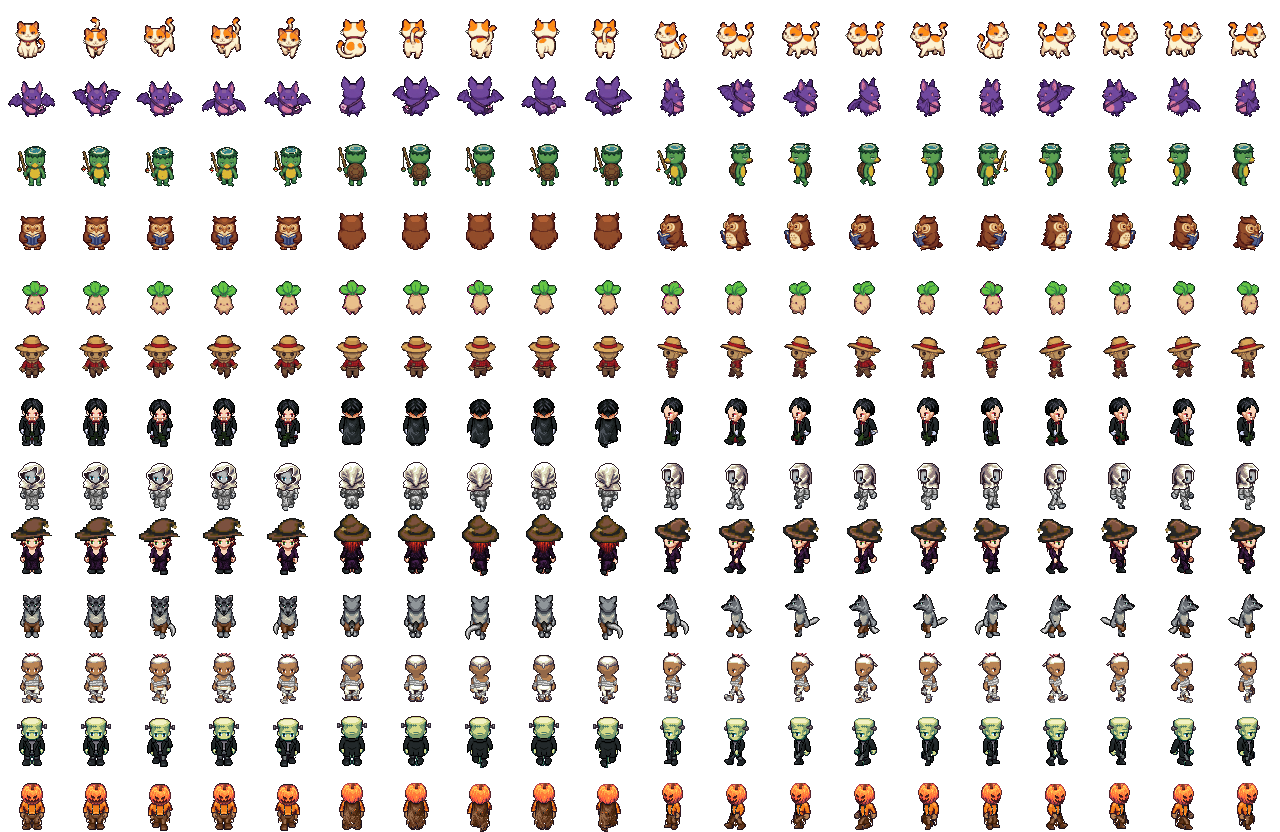
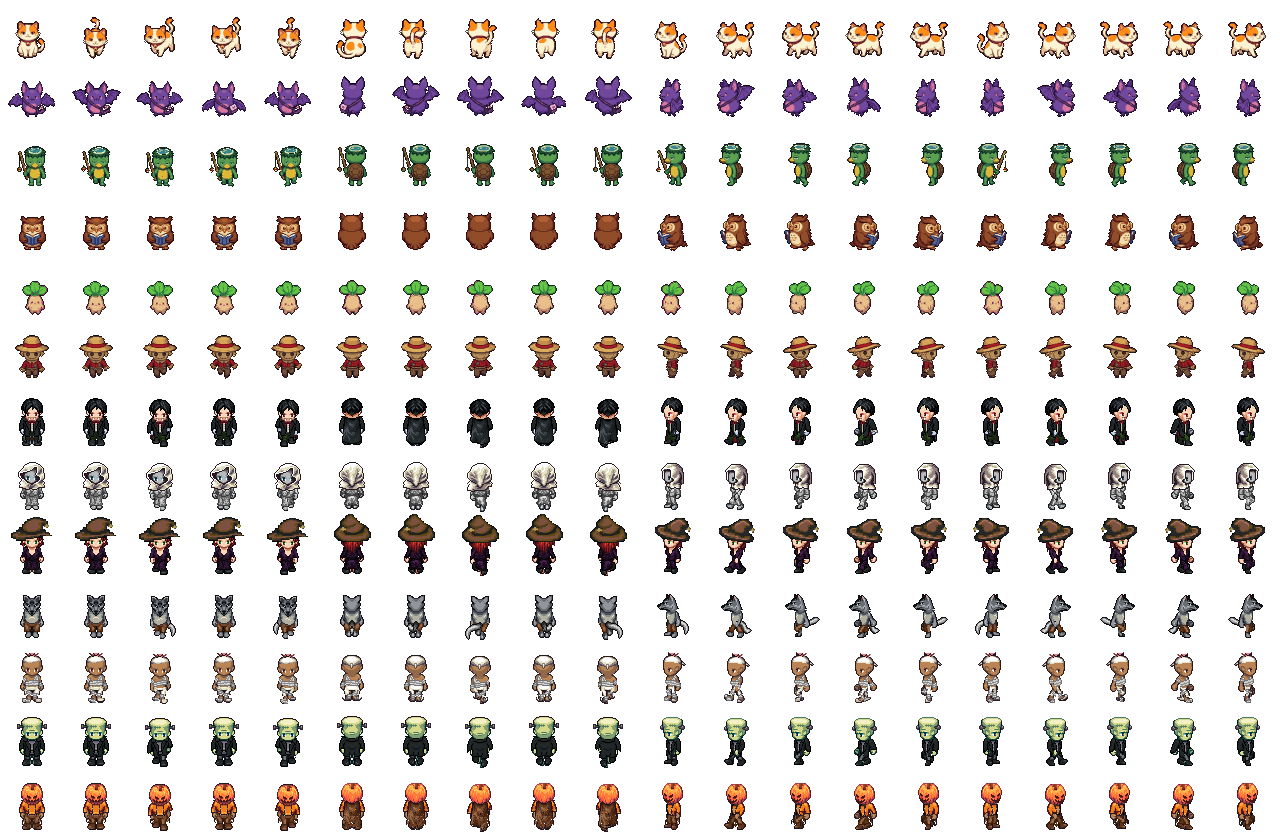
대사 화면·지도에서 동물 NPC가 걸을 때 좌우로 번갈아 보던 것 수정: 옆모습 걷기 칸을 칸마다 뒤집던 걸 없애고 생성 시트 그대로 사용 (캇파 등 6명, 배트리는 방향 바로잡음)
Claude-Session: https://claude.ai/code/session_01HhJ2NoNCjk5kaA3GWL7UDs

diff --git a/public/index.html b/public/index.html
@@ -2141,7 +2141,7 @@ function renderCook(){
 // ===== 서브 NPC 10명: 하루 한 번 대화 ♥, 선물(좋아함 +3·보통 +1·싫어함 -1), ♥2·5·8·10마다 이야기 장면과 보상 =====
 // 동물은 art/npcs.png (tools/iso/npc_art.py) 그림, 사람은 아바타. 관리자 페이지에서 고친 내용(npcs/<id>)이 이 기본값 위에 덮여요
 // 호감도 점수 3점 = ♥1, ♥10까지. me.npc[id] = { p 점수, t 대화한 날, g 선물한 날, s 본 장면 [2,5,…] }
-const NPC_ART_V = 5;
+const NPC_ART_V = 6;
 const NPC_DATA_V = 1;   // data/npc 캐시 버전
 // LPC NPC 그림(art/npcs.png: 한 줄 = 한 명, 64칸 20개)에서 얼굴 부분만 크게 (초상화)
 const NPC_FACE = { 0: [13, 14, 31], 1: [18, 12, 29], 2: [20, 16, 28], 3: [17, 18, 31], 4: [19, 23, 32], 5: [12, 9, 39] };   // 동물·허수아비는 사람과 머리 위치가 달라요 (나비·배트리·캇파·아울라·맨디·짚신 얼굴 틀: x, y, 크기)

diff --git a/tools/iso/lpc/gen_npcs.py b/tools/iso/lpc/gen_npcs.py
@@ -16,6 +16,8 @@ GEN = {
  'mandi':  (4, 34, 58, [0, 1, 2, 3, 1]),
  'jipsin': (5, 42, 58, [0, 1, 2, 3, 1]),
 }
+TRUST = {'nabi', 'batri', 'kappa', 'aula', 'mandi', 'jipsin'}   # 옆모습 칸을 칸마다 따로 뒤집지 않을 NPC (생성 시트의 왼쪽 줄이 한 방향으로 일정해요)
+FLIP_LEFT = {'batri'}   # 생성 시트의 '왼쪽' 줄이 사실 오른쪽을 보고 있어서 통째로 뒤집어요
 GROW = {'down': 0, 'left': 1, 'right': 2, 'up': 3}   # 생성 시트의 줄
 DIRS = ['down', 'up', 'left', 'right']              # 게임 칸 순서
 def cells(a):
@@ -77,13 +79,20 @@ def build(name):
             f[ys, xs] = s[max(0, -y0):max(0, -y0) + (ys.stop - ys.start), max(0, -x0):max(0, -x0) + (xs.stop - xs.start)]
             frames.append(f)
     # 옆모습 정리: 왼쪽 서기 칸을 기준으로, 반대로 선 칸은 뒤집고 앞모습 칸은 이웃 칸으로. 오른쪽은 왼쪽을 뒤집어요
+    # 옆모습 정리 (왼쪽 서기 칸 기준): 칸마다 어느 쪽을 보는지 머리 모양으로 가려요 (다리·꼬리는 걸을 때마다 달라서 몸 전체로 비교하면 틀려요).
+    #   머리 윗부분(키의 앞 45%)을 L0와 겹쳐 보아서, 뒤집은 쪽이 더 닮으면 뒤집어요. 앞모습 칸과 더 닮으면 이웃 칸으로 대신해요
     iou = lambda p, q: ((p[..., 3] > 0) & (q[..., 3] > 0)).sum() / max(1, ((p[..., 3] > 0) | (q[..., 3] > 0)).sum())
+    def headm(f):
+        ys = np.nonzero((f[..., 3] > 0).any(1))[0]; h = f.copy()
+        if len(ys): h[int(ys[0] + (ys[-1] - ys[0] + 1) * .45):] = 0
+        return h
     L0, D0 = frames[10], frames[0]; left = [L0]
-    for f in frames[11:15]:
-        fl = f[:, ::-1]; a_, b_, c_ = iou(f, L0), iou(fl, L0), iou(f, D0)
+    for f in (frames[11:15] if name not in TRUST else []):
+        fl = f[:, ::-1]; a_, b_, c_ = iou(headm(f), headm(L0)), iou(headm(fl), headm(L0)), iou(f, D0)
         if c_ > max(a_, b_) + .05: f = left[-1]
         elif b_ > a_: f = fl
         left.append(f)
+    if name in TRUST: left = [f[:, ::-1].copy() for f in frames[10:15]] if name in FLIP_LEFT else frames[10:15]   # 생성 시트의 왼쪽 줄이 다 같은 쪽을 보고 있으면 그대로 써요 (몸 모양 비교가 걷는 칸을 뒤집어 버린 적이 있어요)
     frames[10:15] = left; frames[15:20] = [f[:, ::-1].copy() for f in left]
     strip = np.concatenate(frames, 1)
     # 색 수 줄이기 (시트 하나에 32색)
